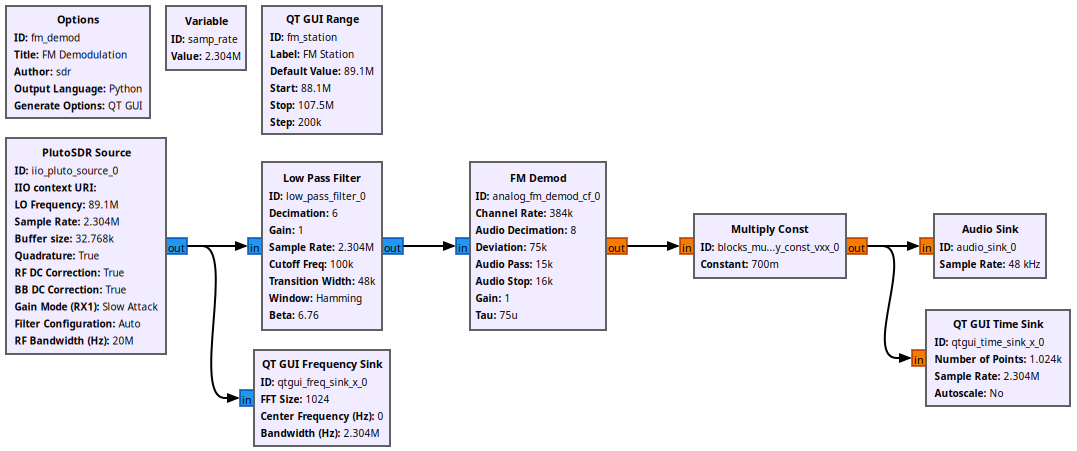
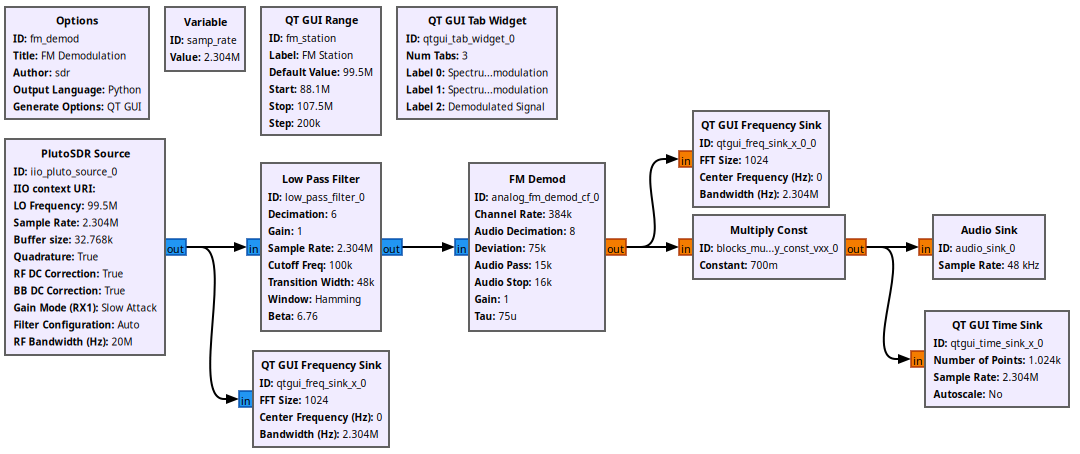
Adding spectrums pre and post demodulation

diff --git a/4/lab_report.tex b/4/lab_report.tex
@@ -1,0 +1,57 @@
+\documentclass{article}
+\usepackage[margin=1in]{geometry}
+\usepackage{graphicx}
+\usepackage{xcolor}
+\usepackage{float}
+\usepackage{amsmath}
+\usepackage{cite}
+\usepackage{hyperref}
+\graphicspath{{..} {./images}}
+
+\definecolor{navy-blue}{rgb}{0.22,0.38,0.71}
+
+\renewcommand{\contentsname}{\vspace*{-2\baselineskip}}
+
+\hypersetup{
+	colorlinks,
+	linkcolor=black,
+	urlcolor=blue,
+	citecolor=black
+}
+  		
+\begin{document}
+\begin{titlepage}
+	\centering
+	{\huge Lab 4 - Analog Modulation with SDR}\\[0.25 in]
+	\includegraphics[width=0.6\textwidth]{ua_logo.png}\\[0.25 in]
+	{\large \textbf{ECE 531 - Software Defined Radio\\[0.25 in]
+	March 17, 2025\\[0.25 in]}}
+	{\large Owen Sowatzke, osowatzke@arizona.edu\\[0.05 in]
+	Department of Electrical \& Computer Engineering\\[0.05 in]
+	University of Arizona, Tucson, AZ 85721\\[0.5 in]}
+	\hypersetup{linkcolor=navy-blue}
+	\noindent\hrulefill
+	\tableofcontents
+	\noindent\hrulefill
+\end{titlepage}
+
+\setlength{\parindent}{0pt}
+
+\section{Introduction}
+%Introduction to the laboratory experiment, including a brief description of the objectives and goals.
+
+\section{Procedure}
+% Detailed explanation of the laboratory experiment, including the design, implementation, and testing of the system.
+
+\section{Results}
+% Results and discussion of the laboratory experiment, including captured outputs, observations, and responses to laboratory questions.
+
+\section{Conclusion}
+% Conclusions to the overall lab that discuss meaningful lessons learned and other takeaways from the assignment. (Important)
+
+%\nocite{analog_devices_libiio_error}
+%\bibliographystyle{IEEEtran}
+%\bibliography{sources}{}
+%\bibliographystyle{ieeetr}
+	
+\end{document}
